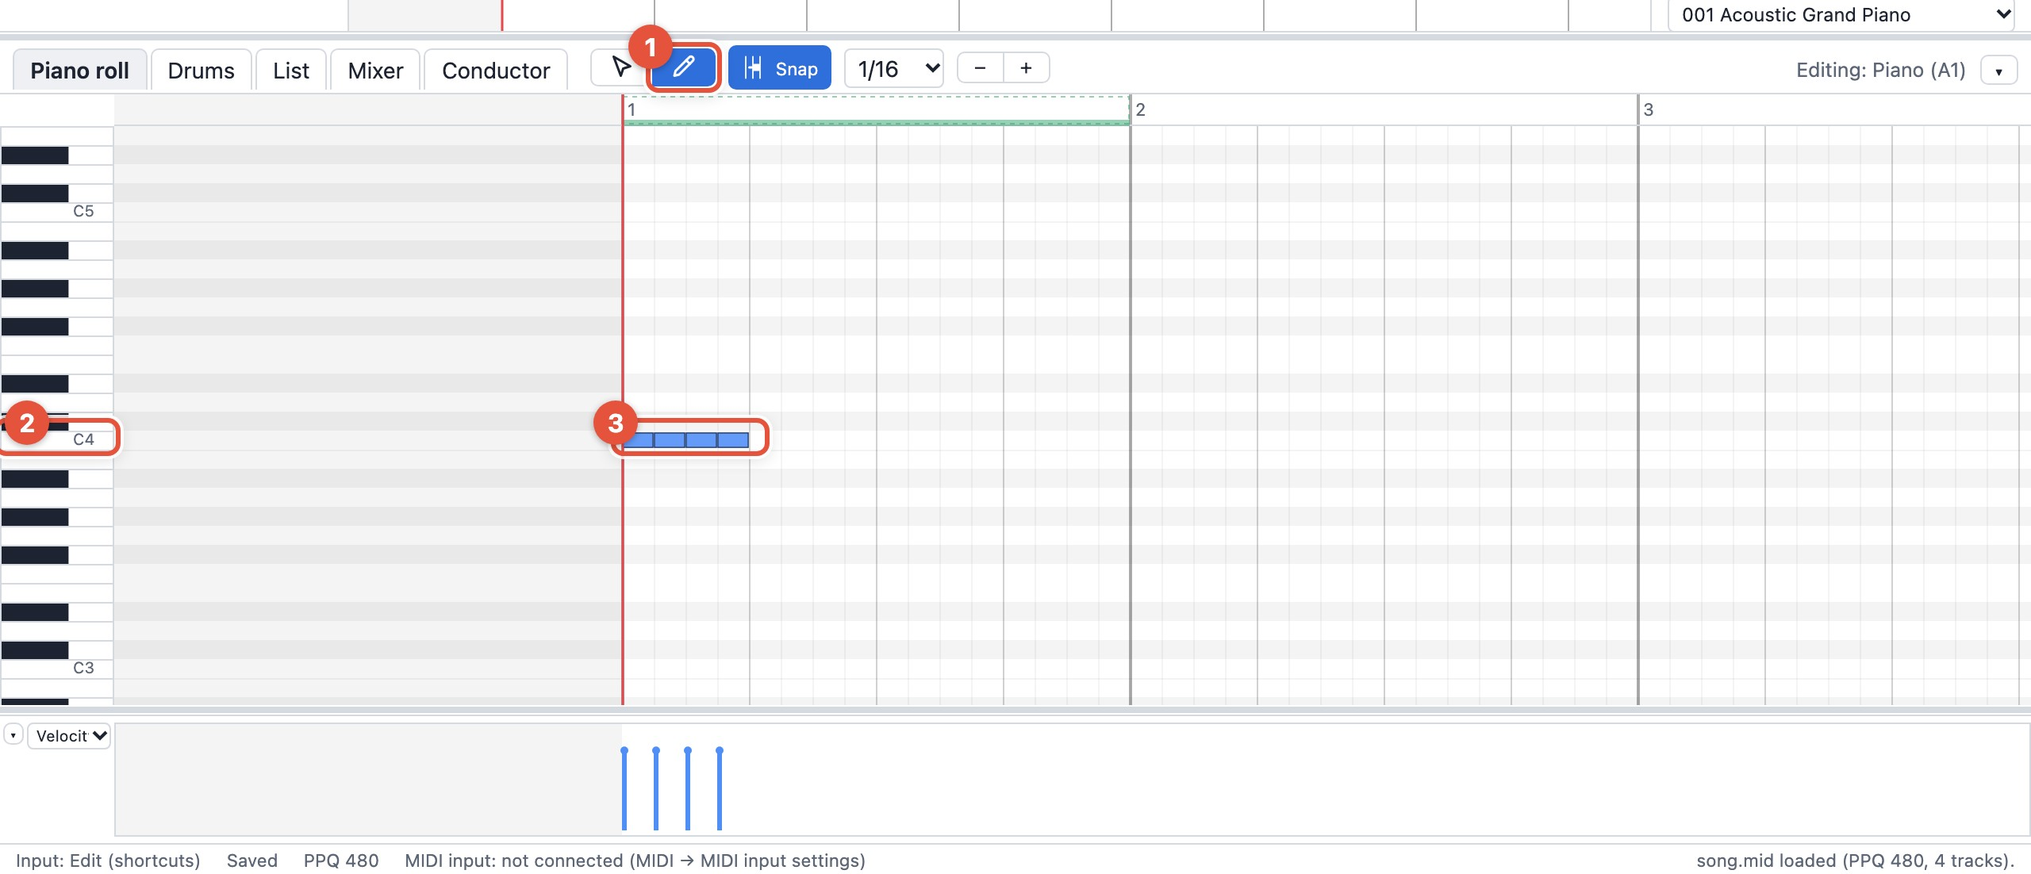
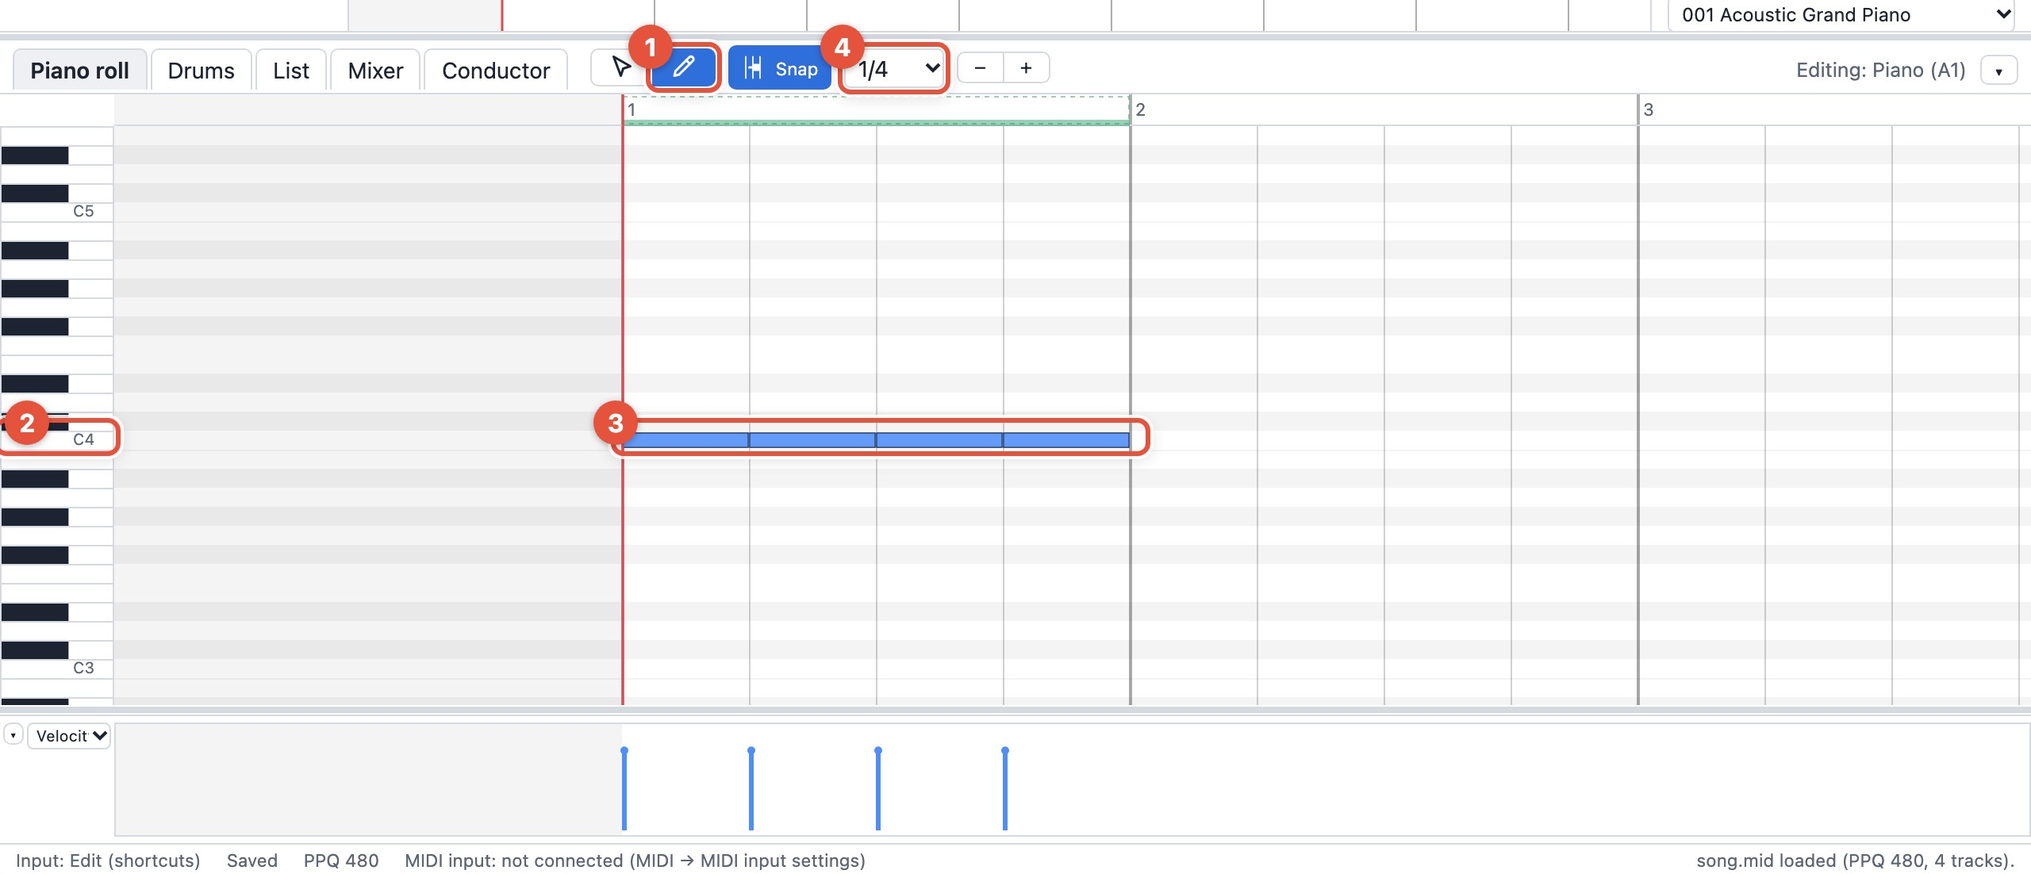
入門の 1〜3 章と 6 章を、手順どおりに進めると同じデータになるように書き直す
1 章でグリッドを 1/4 にして 4 分音符を置く、2 章はグリッド 1/8、3 章は ⌘A → ⌘D → ↑ 5 回で 2 小節目を作る、
6 章は ⌘D を 3 回で 8 小節。図も手順に合わせて撮り直し（グリッドの印を追加）。

Changed region(s): [[0.3438, 0.4628, 0.5625, 0.5245], [0.4062, 0.0309, 0.4688, 0.1234], [0.3125, 0.8639, 0.375, 0.9564]]

diff --git a/src/app/help/tutorial.tsx b/src/app/help/tutorial.tsx
@@ -55,13 +55,14 @@ export const TUTORIAL_CHAPTERS: HelpSection[] = [
         <ol>
           <li>起動ダイアログで「新しい曲」を選び、「開始」。ピアノ・ベース・ギター・ドラムの 4 トラックが並びます（まず完成した曲を聴きたいときは「サンプル曲」）。</li>
           <li>トラックビューで「ピアノ」をクリックして選びます。下のエディターが「ピアノロール」になっていることを確かめます。</li>
-          <li><K>P</K> で描画ツールにし、左の鍵盤で C4 の高さの、1 小節目の先頭をクリック。ノートが 1 つ置かれます（長さは編集グリッド、最初は 1/16）。</li>
-          <li>同じ高さで右に 3 つ、続けて置いてみます。クリックしたままドラッグすると長さを伸ばせます。</li>
+          <li>エディターの上にある編集グリッド（最初は「1/16」）を <strong>1/4</strong> にします。クリックで置くノートの長さは、このグリッドの長さになります。</li>
+          <li><K>P</K> で描画ツールにし、左の鍵盤で C4 の段の、1 小節目の先頭をクリック。4 分音符が 1 つ置かれます。</li>
+          <li>同じ段で右に 3 つ、続けて置きます。1 小節が 4 分音符 4 つで埋まります（クリックしたままドラッグすると長さを伸ばせますが、ここでは伸ばしません）。</li>
           <li><K>Space</K> で再生。もう一度 <K>Space</K> で止まり、<K>Enter</K> で先頭に戻ります。</li>
         </ol>
         <p>ノートを動かすには <K>V</K> で選択ツールにして中央をドラッグ、消すには選んで <K>Delete</K>。置く場所はグリッドに吸い付きます（スナップ）。</p>
         <Fig src="startup.ja.jpg" alt="起動ダイアログ" caption="① 新しい曲 ② 開始" />
-        <Fig src="first-notes.ja.jpg" alt="ピアノロールに C4 のノートを 4 つ置いたところ" caption="① 描画ツール ② C4 の段 ③ 置いたノート（1/16 が 4 つ）" />
+        <Fig src="first-notes.ja.jpg" alt="ピアノロールに C4 の 4 分音符を 4 つ置いたところ" caption="① 描画ツール ② C4 の段 ③ 置いたノート（4 分音符が 4 つ） ④ 編集グリッド 1/4" />
       </>
     ),
   },
@@ -72,12 +73,13 @@ export const TUTORIAL_CHAPTERS: HelpSection[] = [
       <>
         <ol>
           <li>トラックビューで「ドラム」を選びます。エディターが「ドラム」になり、楽器名のレーンが並びます。</li>
+          <li>編集グリッドを <strong>1/8</strong> にします（ハイハットを 8 分音符で置くため）。</li>
           <li>Bass Drum 1 のレーンで 1 拍目と 3 拍目をクリック、Acoustic Snare のレーンで 2 拍目と 4 拍目をクリック。</li>
           <li>Closed Hi-Hat のレーンで 8 分音符ごと（1 小節に 8 つ）にクリック。</li>
           <li><K>L</K> でループを ON にし、<K>Space</K>。1 小節目が繰り返し鳴ります。ループの範囲はトランスポートの「小節」の数値か、ルーラーの端をドラッグして変えられます。</li>
         </ol>
         <p>ドラムは音の高さが楽器の違いになります（C1 = Bass Drum、D1 = Snare……）。これが 10 チャンネルの決まりです。右のパッドをクリックすると音を確かめられます。</p>
-        <Fig src="rhythm.ja.jpg" alt="ドラムエディターに 1 小節のパターンを置いたところ" caption="① Bass Drum 1 ② Acoustic Snare ③ Closed Hi-Hat ④ ループ" />
+        <Fig src="rhythm.ja.jpg" alt="ドラムエディターに 1 小節のパターンを置いたところ" caption="① Bass Drum 1 ② Acoustic Snare ③ Closed Hi-Hat ④ ループ ⑤ 編集グリッド 1/8" />
       </>
     ),
   },
@@ -87,12 +89,14 @@ export const TUTORIAL_CHAPTERS: HelpSection[] = [
     body: (
       <>
         <ol>
-          <li>「ベース」を選び、ピアノロールで C2 の高さに 4 分音符（編集グリッドを 1/4 にしてクリック）を 1 小節ぶん置きます。</li>
-          <li>「ピアノ」に戻り、最初に置いたノートの上に E4 と G4 を重ねます。C・E・G が同時に鳴ると C のコード（ドミソ）です。</li>
-          <li>ループを 2 小節にして、2 小節目はベースを F2、ピアノを F4・A4・C5 にしてみます。C → F と進むだけで曲らしくなります。</li>
+          <li>「ベース」を選び、編集グリッドを <strong>1/4</strong> に戻して、ピアノロールの C2 の段に 4 分音符を 4 つ置きます（1 小節ぶん）。</li>
+          <li>「ピアノ」に戻り、1 章で置いた 4 つのノートそれぞれの上に、E4 と G4 を置きます（1 拍につき C4・E4・G4 の 3 つ、合計 12 個）。C・E・G が同時に鳴ると C のコード（ドミソ）です。</li>
+          <li>2 小節目を作ります。ピアノロールをクリックしてから <K>{MOD}A</K> で 1 小節目のノートをすべて選び、<K>{MOD}D</K> で複製。同じものが 2 小節目に置かれ、選ばれた状態になります。そのまま <K>↑</K> を 5 回押すと 5 半音上がり、F4・A4・C5（F のコード）になります。</li>
+          <li>ベースも同じです。「ベース」を選び、ピアノロールをクリックしてから <K>{MOD}A</K> → <K>{MOD}D</K> → <K>↑</K> を 5 回で、2 小節目が F2 になります。ドラムは「ドラム」を選んで <K>{MOD}A</K> → <K>{MOD}D</K> だけ（2 小節目も同じパターン）。</li>
+          <li>トランスポートの「小節」の右側の数を 3 にします（1 〜 3 で、1・2 小節目を繰り返し）。<K>Space</K>。C → F と進むだけで曲らしくなります。</li>
         </ol>
-        <p>ノートを選んで <K>{MOD}C</K> → 再生位置を動かして <K>{MOD}V</K> で貼り付け、<K>{MOD}D</K> で複製。<K>↑↓</K> で半音、Shift+<K>↑↓</K> でオクターブ移動します。</p>
-        <Fig src="chords.ja.jpg" alt="ピアノロールの C と F のコード" caption="① 編集グリッドを 1/4 に ② 1 小節目は C・E・G ③ 2 小節目は F・A・C" />
+        <p>ノートを選んで <K>{MOD}C</K> → 再生位置を動かして <K>{MOD}V</K> で貼り付け、<K>{MOD}D</K> で複製（選んだ範囲のすぐ後ろに）。<K>↑↓</K> で半音、Shift+<K>↑↓</K> でオクターブ移動します。</p>
+        <Fig src="chords.ja.jpg" alt="ピアノロールの C と F のコード" caption="① 編集グリッド 1/4 ② 1 小節目は C・E・G ③ 2 小節目は F・A・C（複製して ↑ 5 回）" />
       </>
     ),
   },
@@ -102,7 +106,7 @@ export const TUTORIAL_CHAPTERS: HelpSection[] = [
     body: (
       <>
         <ul>
-          <li><strong>音色</strong>: トラックを選び、右のインスペクターの「音色」から選びます。ピアノを Electric Piano 1 に、ギターを String Ensemble 1 にすると雰囲気が変わります。</li>
+          <li><strong>音色</strong>: トラックを選び、右のインスペクターの「音色」から選びます。ピアノを Electric Piano 1 に、ギターを String Ensemble 1 にすると雰囲気が変わります（ギターはまだノートが無いので鳴りませんが、あとで弾くときのために選んでおきます）。</li>
           <li><strong>テンポ</strong>: トランスポートの BPM をクリックして数値を入れます。120 がふつう、90 でゆったり、140 で速め。曲の途中で変えるときはコンダクターで。</li>
           <li><strong>音量と左右</strong>: 「ミキサー」タブで Volume と Pan を動かします。再生しながら動かせます。</li>
         </ul>
@@ -135,12 +139,13 @@ export const TUTORIAL_CHAPTERS: HelpSection[] = [
     body: (
       <>
         <ul>
-          <li>トラックビューで空いているところからドラッグすると、4 トラックのクリップをまとめて選べます。<K>{MOD}D</K> で、そのすぐ後ろに複製。2 小節を 4 回並べれば 8 小節。1 つだけなら <K>{ALT}</K>+ドラッグでも複製できます。</li>
+          <li>2 小節できたので、これを 4 回並べて 8 小節にします。トラックビューで、クリップの無い空いているところ（たとえばドラムの下）から左上へドラッグすると、ピアノ・ベース・ドラムのクリップをまとめて選べます（ギターにはまだノートが無いので、クリップもありません）。<K>{MOD}D</K> で、そのすぐ後ろに複製されます。複製されたクリップが選ばれた状態になるので、続けて <K>{MOD}D</K> をあと 2 回押せば 8 小節です。1 つだけなら <K>{ALT}</K>+ドラッグでも複製できます。</li>
           <li>変化をつけたい場所だけノートを変えます。ベロシティを変えると強弱がつきます（ピアノロール下の Velocity レーンをドラッグ）。</li>
           <li>機械的すぎると感じたら、ノートを選んで 編集 › ノート › ヒューマナイズ…。位置と強さが少しだけ揺れます。</li>
           <li>マーカー（トラックビューのマーカー行の右クリック、またはコンダクター）で Intro / A / B と名前を付けておくと迷いません。</li>
         </ul>
-        <Fig src="arrange.ja.jpg" alt="トラックビューで 4 つのクリップを範囲選択したところ" caption="① 空いているところからドラッグして、4 トラックのクリップをまとめて選択" />
+        <p>ここまでで、C と F のコードが交互に 4 回、8 小節の曲になっています。</p>
+        <Fig src="arrange.ja.jpg" alt="トラックビューで 3 トラックのクリップを範囲選択したところ" caption="① 空いているところからドラッグして、ピアノ・ベース・ドラムのクリップをまとめて選択（ギターは空）" />
       </>
     ),
   },

diff --git a/src/app/help/tutorial.en.tsx b/src/app/help/tutorial.en.tsx
@@ -47,13 +47,14 @@ export const TUTORIAL_CHAPTERS_EN: HelpSection[] = [
         <ol>
           <li>In the startup dialog choose “New song”, then “Start”. Four tracks appear: piano, bass, guitar and drums. (If you would rather hear a finished song first, pick “Sample songs”.)</li>
           <li>Click “Piano” in the track view to select it. Make sure the editor below shows the “Piano roll” tab.</li>
-          <li>Press <K>P</K> for the draw tool, then click at the start of bar 1 at the height of C4 on the keyboard to the left. One note is placed (its length is the edit grid, 1/16 at first).</li>
-          <li>Place three more to the right at the same pitch. Keep the mouse button down and drag to make a note longer.</li>
+          <li>Set the edit grid above the editor (it starts at “1/16”) to <strong>1/4</strong>. A note you place by clicking is as long as this grid.</li>
+          <li>Press <K>P</K> for the draw tool, then click at the start of bar 1 in the C4 row (see the keyboard on the left). One quarter note is placed.</li>
+          <li>Place three more to the right in the same row, so bar 1 is filled with four quarter notes. (Keeping the button down and dragging makes a note longer; not needed here.)</li>
           <li>Press <K>Space</K> to play. <K>Space</K> again pauses, <K>Enter</K> goes back to the start.</li>
         </ol>
         <p>To move a note, press <K>V</K> for the select tool and drag its middle; to delete it, select it and press <K>Delete</K>. Notes snap to the grid as you place them.</p>
         <Fig src="startup.en.jpg" alt="The startup dialog" caption="① New song ② Start" />
-        <Fig src="first-notes.en.jpg" alt="Four C4 notes placed in the piano roll" caption="① Draw tool ② The C4 row ③ The notes you placed (four 1/16ths)" />
+        <Fig src="first-notes.en.jpg" alt="Four C4 quarter notes placed in the piano roll" caption="① Draw tool ② The C4 row ③ The notes you placed (four quarter notes) ④ Edit grid 1/4" />
       </>
     ),
   },
@@ -64,12 +65,13 @@ export const TUTORIAL_CHAPTERS_EN: HelpSection[] = [
       <>
         <ol>
           <li>Select “Drums” in the track view. The editor switches to “Drums”, with one lane per instrument.</li>
+          <li>Set the edit grid to <strong>1/8</strong> (the hi-hat goes on eighth notes).</li>
           <li>In the Bass Drum 1 lane click beats 1 and 3; in the Acoustic Snare lane click beats 2 and 4.</li>
           <li>In the Closed Hi-Hat lane click every eighth note (eight per bar).</li>
           <li>Press <K>L</K> to turn the loop on, then <K>Space</K>. Bar 1 repeats. Change the loop range with the “Bars” numbers in the transport or by dragging the ends of the range in the ruler.</li>
         </ol>
         <p>On drums, pitch selects the instrument (C1 = bass drum, D1 = snare…). That is the rule of channel 10. Click the pads on the right to hear each one.</p>
-        <Fig src="rhythm.en.jpg" alt="A one-bar pattern in the drum editor" caption="① Bass Drum 1 ② Acoustic Snare ③ Closed Hi-Hat ④ Loop" />
+        <Fig src="rhythm.en.jpg" alt="A one-bar pattern in the drum editor" caption="① Bass Drum 1 ② Acoustic Snare ③ Closed Hi-Hat ④ Loop ⑤ Edit grid 1/8" />
       </>
     ),
   },
@@ -79,12 +81,14 @@ export const TUTORIAL_CHAPTERS_EN: HelpSection[] = [
     body: (
       <>
         <ol>
-          <li>Select “Bass” and, in the piano roll, place quarter notes at C2 for one bar (set the edit grid to 1/4 and click).</li>
-          <li>Back on “Piano”, stack E4 and G4 on top of the first note you placed. C, E and G together make a C chord.</li>
-          <li>Make the loop two bars long and, in bar 2, move the bass to F2 and the piano to F4, A4 and C5. Just going C → F already sounds like a song.</li>
+          <li>Select “Bass”, set the edit grid back to <strong>1/4</strong>, and place four quarter notes in the C2 row of the piano roll (one bar).</li>
+          <li>Back on “Piano”, put E4 and G4 on top of each of the four notes from chapter 1 (C4, E4 and G4 on every beat: 12 notes in all). C, E and G together make a C chord.</li>
+          <li>Now bar 2. Click the piano roll, press <K>{MOD}A</K> to select all the notes of bar 1, then <K>{MOD}D</K> to duplicate them: the same notes appear in bar 2 and stay selected. Press <K>↑</K> five times to raise them five semitones: F4, A4, C5 (an F chord).</li>
+          <li>The bass works the same way: select “Bass”, click the piano roll, then <K>{MOD}A</K> → <K>{MOD}D</K> → <K>↑</K> five times, and bar 2 is F2. For the drums just <K>{MOD}A</K> → <K>{MOD}D</K> (bar 2 gets the same pattern).</li>
+          <li>Set the right-hand “Bars” number in the transport to 3 (1 to 3 loops bars 1 and 2). <K>Space</K>. Just going C → F already sounds like a song.</li>
         </ol>
-        <p>Select notes and <K>{MOD}C</K>, move the playhead and <K>{MOD}V</K> to paste; <K>{MOD}D</K> duplicates. <K>↑↓</K> moves by a semitone, Shift+<K>↑↓</K> by an octave.</p>
-        <Fig src="chords.en.jpg" alt="C and F chords in the piano roll" caption="① Grid set to 1/4 ② Bar 1: C–E–G ③ Bar 2: F–A–C" />
+        <p>Select notes and <K>{MOD}C</K>, move the playhead and <K>{MOD}V</K> to paste; <K>{MOD}D</K> duplicates right after the selection. <K>↑↓</K> moves by a semitone, Shift+<K>↑↓</K> by an octave.</p>
+        <Fig src="chords.en.jpg" alt="C and F chords in the piano roll" caption="① Edit grid 1/4 ② Bar 1: C–E–G ③ Bar 2: F–A–C (duplicated, then ↑ five times)" />
       </>
     ),
   },
@@ -94,7 +98,7 @@ export const TUTORIAL_CHAPTERS_EN: HelpSection[] = [
     body: (
       <>
         <ul>
-          <li><strong>Patch</strong>: select a track and pick one under “Patch” in the inspector on the right. Try Electric Piano 1 for the piano and String Ensemble 1 for the guitar to change the mood.</li>
+          <li><strong>Patch</strong>: select a track and pick one under “Patch” in the inspector on the right. Try Electric Piano 1 for the piano and String Ensemble 1 for the guitar to change the mood (the guitar has no notes yet, so you will not hear it; pick it now for later).</li>
           <li><strong>Tempo</strong>: click the BPM in the transport and type a number. 120 is average, 90 relaxed, 140 brisk. To change it in the middle of the song, use the conductor.</li>
           <li><strong>Volume and stereo position</strong>: move Volume and Pan on the “Mixer” tab. You can do this while the song plays.</li>
         </ul>
@@ -127,12 +131,13 @@ export const TUTORIAL_CHAPTERS_EN: HelpSection[] = [
     body: (
       <>
         <ul>
-          <li>In the track view, drag from empty space to select the clips of all four tracks at once. <K>{MOD}D</K> duplicates them right after themselves: two bars four times makes eight. A single clip can also be duplicated with <K>{ALT}</K>+drag.</li>
+          <li>You have two bars; repeat them four times to get eight. In the track view, drag from empty space with no clip (below the drums, say) up and to the left to select the piano, bass and drum clips together (the guitar has no notes yet, so no clip). <K>{MOD}D</K> duplicates them right after themselves. The copies stay selected, so press <K>{MOD}D</K> twice more for eight bars. A single clip can also be duplicated with <K>{ALT}</K>+drag.</li>
           <li>Change notes only where you want variation. Changing velocities adds dynamics (drag in the Velocity lane under the piano roll).</li>
           <li>If it feels too mechanical, select the notes and use Edit › Notes › Humanize…. Positions and velocities get a little looser.</li>
           <li>Markers (right-click the marker row in the track view, or use the conductor) named Intro / A / B keep you oriented.</li>
         </ul>
-        <Fig src="arrange.en.jpg" alt="Four clips rubber-band selected in the track view" caption="① Drag from empty space to select the clips of all four tracks at once" />
+        <p>You now have an eight-bar song: C and F chords alternating four times.</p>
+        <Fig src="arrange.en.jpg" alt="Three clips rubber-band selected in the track view" caption="① Drag from empty space to select the piano, bass and drum clips at once (the guitar is empty)" />
       </>
     ),
   },

diff --git a/scripts/shots/tutorial.spec.ts b/scripts/shots/tutorial.spec.ts
@@ -112,31 +112,38 @@ for (const lang of ['ja', 'en'] as Lang[]) {
       await shot(page, 'screen', lang);
 
       // --- 1. 最初の音を置く: draw tool, C4, four 16th notes in bar 1
-      await importMidi(page, song(lang, { piano: [[0, 60, Q / 4], [Q / 4, 60, Q / 4], [Q / 2, 60, Q / 4], [(Q * 3) / 4, 60, Q / 4]] }));
+      await importMidi(page, song(lang, { piano: [[0, 60, Q], [Q, 60, Q], [Q * 2, 60, Q], [Q * 3, 60, Q]] }));
       await trackHeader(page, piano).click();
       await tab(page, lang, 'ピアノロール', 'Piano roll').click();
       await page.getByTestId('tool-draw').click();
+      const gridSelect = page.getByRole('combobox', { name: lang === 'ja' ? 'グリッド' : 'Grid' });
+      await gridSelect.selectOption('4:straight');
       const grid = (await page.getByTestId('piano-roll-grid').boundingBox())!;
       const keys = (await page.locator('.roll-keys').boundingBox())!;
       const c4 = await rollPoint(page, 0, 60); // the note row of C4 (keys are drawn on a canvas)
       await callout(page, page.getByTestId('tool-draw'), 1);
       await callout(page, { x: keys.x, y: c4.y - 10, width: keys.width, height: 16 }, 2);
-      await callout(page, { x: c4.x - 6, y: c4.y - 10, width: 92, height: 16 }, 3);
+      await callout(page, { x: c4.x - 6, y: c4.y - 10, width: 4 * 80 + 12, height: 16 }, 3);
+      await callout(page, gridSelect, 4);
       await shot(page, 'first-notes', lang, { clip: { x: 0, y: grid.y - 60, width: 1280, height: 920 - (grid.y - 60) } });
       await page.getByTestId('tool-select').click();
+      await gridSelect.selectOption('16:straight');
 
-      // --- 2. リズムを足す: drum editor, kick / snare / hat, loop on
-      await importMidi(page, song(lang, { drums: [[0, 36, Q / 2, 110], [Q, 38, Q / 2], [Q * 2, 36, Q / 2, 110], [Q * 3, 38, Q / 2], ...Array.from({ length: 8 }, (_, i) => [i * (Q / 2), 42, Q / 4, 80])] }));
+      // --- 2. リズムを足す: drum editor, kick / snare / hat on a 1/8 grid, loop on
+      await importMidi(page, song(lang, { drums: [[0, 36, Q / 2, 110], [Q, 38, Q / 2, 110], [Q * 2, 36, Q / 2, 110], [Q * 3, 38, Q / 2, 110], ...Array.from({ length: 8 }, (_, i) => [i * (Q / 2), 42, Q / 2, 85])] }));
       await trackHeader(page, drums).click();
       await tab(page, lang, 'ドラム', 'Drums').click();
+      await gridSelect.selectOption('8:straight');
       await page.getByRole('checkbox', { name: 'LOOP' }).check();
       const lanes = page.getByTestId('drum-lane');
       await callout(page, lanes.filter({ hasText: /Bass Drum 1/ }).first(), 1);
       await callout(page, lanes.filter({ hasText: /Acoustic Snare/ }).first(), 2);
       await callout(page, lanes.filter({ hasText: /Closed Hi-Hat/ }).first(), 3);
       await callout(page, page.getByRole('checkbox', { name: 'LOOP' }).locator('..'), 4);
+      await callout(page, gridSelect, 5);
       await shot(page, 'rhythm', lang);
       await page.getByRole('checkbox', { name: 'LOOP' }).uncheck();
+      await gridSelect.selectOption('16:straight');
 
       // --- 3. ベースとコード: C chord then F chord over a bass line, grid 1/4
       await importMidi(
